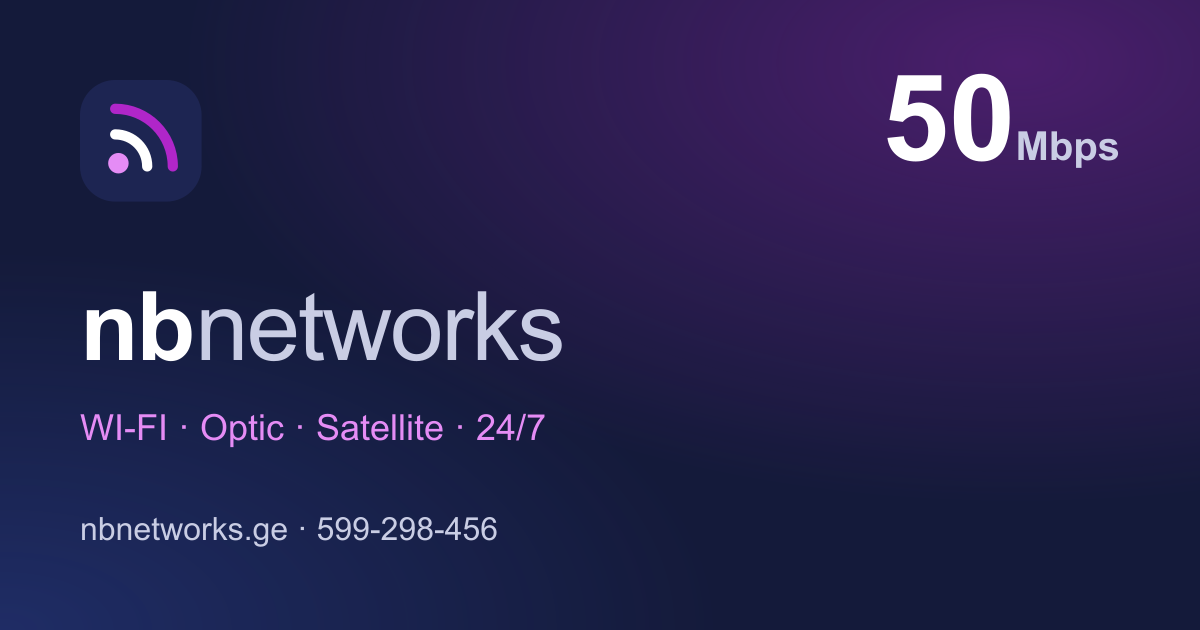
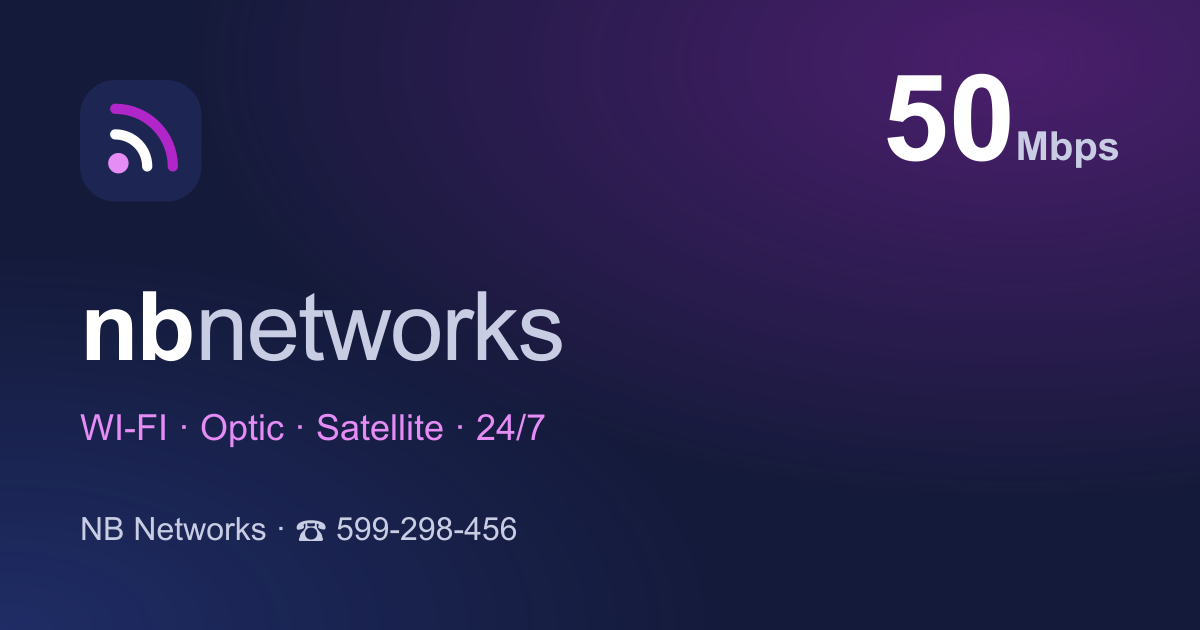
feat: update site URL configuration and enhance footer branding

Changed region(s): [[0.0617, 0.8143, 0.4317, 0.8746]]

diff --git a/src/data/site.ts b/src/data/site.ts
@@ -1,7 +1,8 @@
 export const SITE = {
-  url: 'https://nbnetworks.ge',
+  /** From astro.config `site` (SITE_URL env), without trailing slash. */
+  url: import.meta.env.SITE.replace(/\/$/, ''),
   name: 'NB Networks',
-  title: 'ინტერნეტი დუშეთში — ინტერნეტ პროვაიდერი მცხეთა-მთიანეთში | NB Networks',
+  title: 'ინტერნეტ პროვაიდერი მცხეთა-მთიანეთში | NB Networks',
   description:
     'ინტერნეტის შემოყვანა დუშეთის, მცხეთის, თიანეთის და ყაზბეგის სოფლებში. სტაბილური ინტერნეტი 25–50 Mbps, 25 ლარიდან. WI-FI და ქსელის მონტაჟი, 24/7 მხარდაჭერა. ☎ 599-298-456',
   phone: '599298456',

diff --git a/src/pages/robots.txt.ts b/src/pages/robots.txt.ts
@@ -1,0 +1,7 @@
+import type { APIRoute } from 'astro';
+
+// Generated so the sitemap URL follows the configured site address.
+export const GET: APIRoute = ({ site }) =>
+  new Response(`User-agent: *\nAllow: /\n\nSitemap: ${new URL('/sitemap-index.xml', site).href}\n`, {
+    headers: { 'Content-Type': 'text/plain; charset=utf-8' },
+  });
